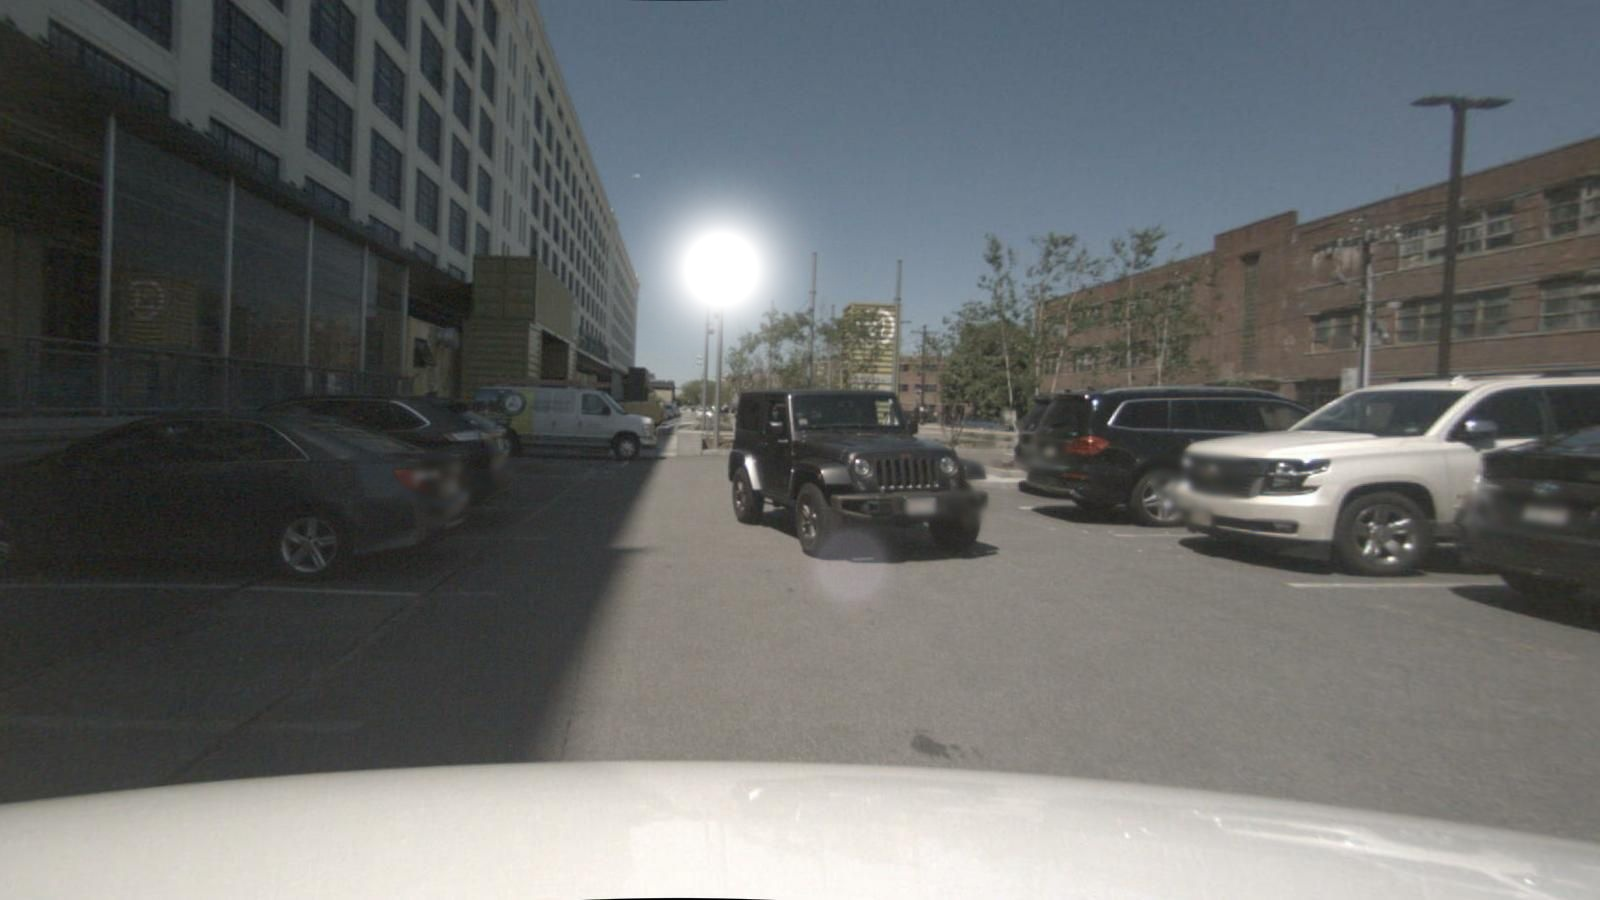
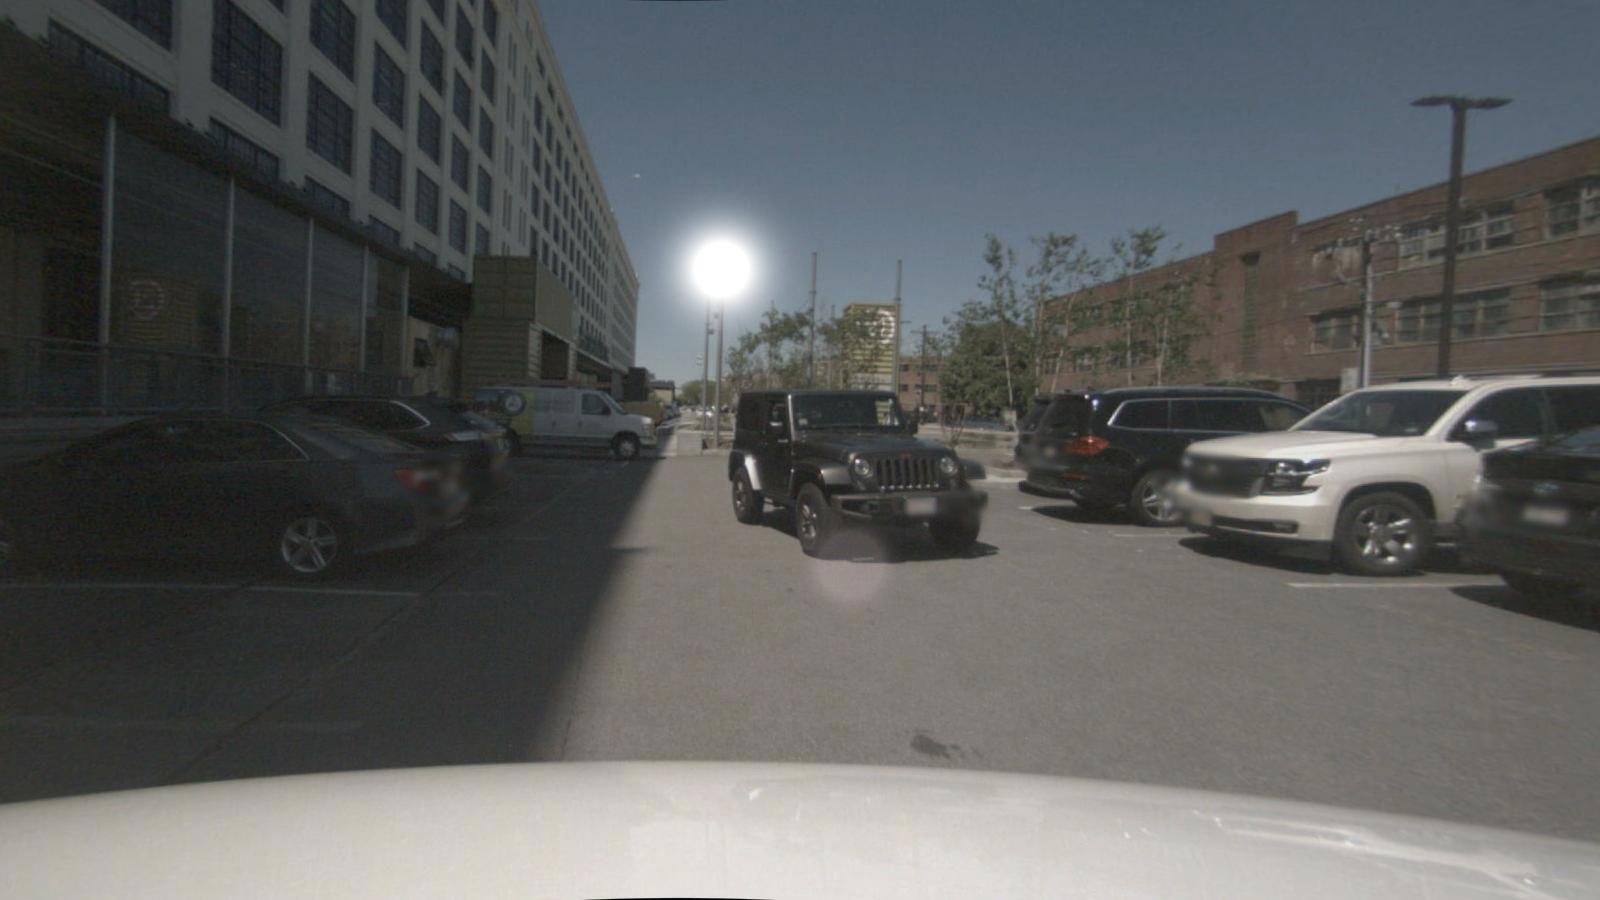
update

diff --git a/局部光斑.py b/局部光斑.py
@@ -21,16 +21,21 @@ np.random.seed(2022)
 class CorruptionBase():
     def __init__(self, corruption_severity_dict={'sun_sim':0}):
         if 'sun_sim' in corruption_severity_dict:
+            self.sun_sim_severity = corruption_severity_dict['sun_sim']
             self.sun_sim = ImageAddSunMono(corruption_severity_dict['sun_sim'])
 
     def test(self, input_filename, output_filename):
         np.random.seed(2022)
         # 读取文件夹中的全部图片路径
+        '''
+        在10张不同image上测试
+        '''
         pic_path_ls = os.listdir(input_filename)
         for pic_path in pic_path_ls:
             pic_path = os.path.join(input_filename, pic_path)
             img_bgr_255_np_uint8 = cv2.imread(pic_path)
             img_rgb_255_np_uint8 = img_bgr_255_np_uint8[:, :, [2, 1, 0]]
+            # image_aug_rgb = cv2.convertScaleAbs(img_rgb_255_np_uint8, alpha=0.8, beta=-1000)
             image_aug_rgb = self.sun_sim(
                 image=img_rgb_255_np_uint8
             )
@@ -39,15 +44,20 @@ class CorruptionBase():
         #img_bgr_255_np_uint8 = cv2.imread(input_filename)
     
     def plot(self, pic_path, num, output_filename):
-
+        '''
+        在单张image上采用不同强度测试
+        '''
         if not os.path.exists(output_filename):
             os.makedirs(output_filename)
         
         np.random.seed(2022)
         img_bgr_255_np_uint8 = cv2.imread(pic_path)
         img_rgb_255_np_uint8 = img_bgr_255_np_uint8[:, :, [2, 1, 0]]
+        alpha = 1.0 - 0.005 * self.sun_sim_severity
+        # print(alpha)
+        image_aug_rgb = cv2.convertScaleAbs(img_rgb_255_np_uint8, alpha=alpha, beta=0)
         image_aug_rgb = self.sun_sim(
-            image=img_rgb_255_np_uint8
+            image=image_aug_rgb
         )
         image_aug_bgr = image_aug_rgb[:, :, [2, 1, 0]]
         output_path = os.path.join(output_filename, f'0{num}.jpg')

diff --git a/整体亮度增强.py b/整体亮度增强.py
@@ -32,7 +32,7 @@ for i in range(len(severity_ls)):
     print(result)
     cv2.imwrite(os.path.join(output_filename, f'0{i + 1}.jpg'), result)
     # cv2.imwrite('./corruption_example_pic/test_light_.jpg', result)
- 
+
 # #获取图像行和列
 # rows, cols = img.shape[0], img.shape[1]
  
